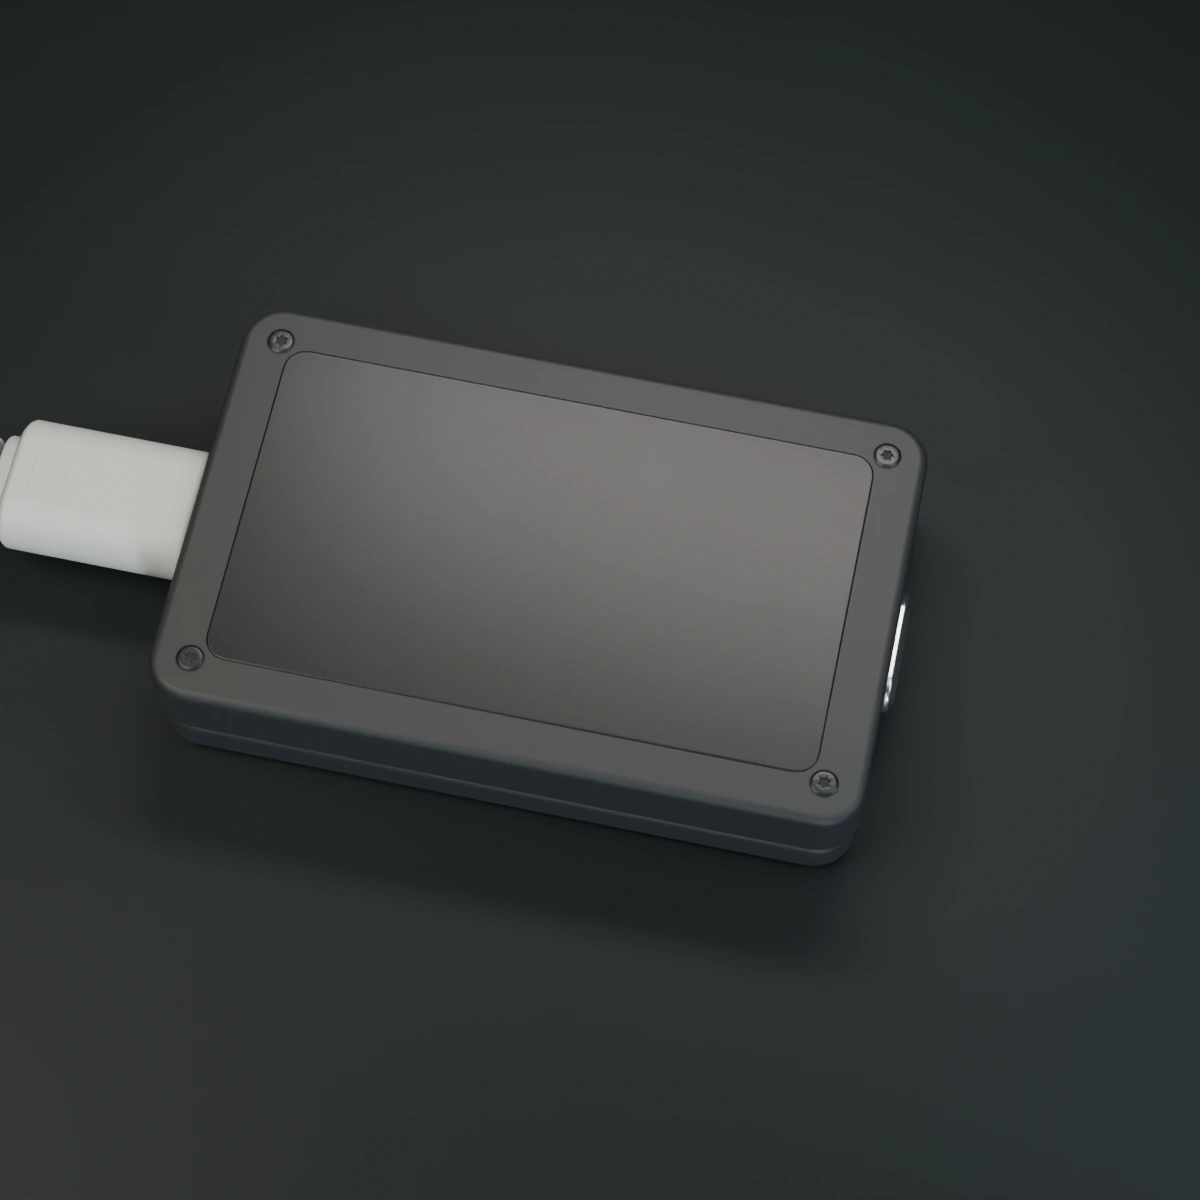
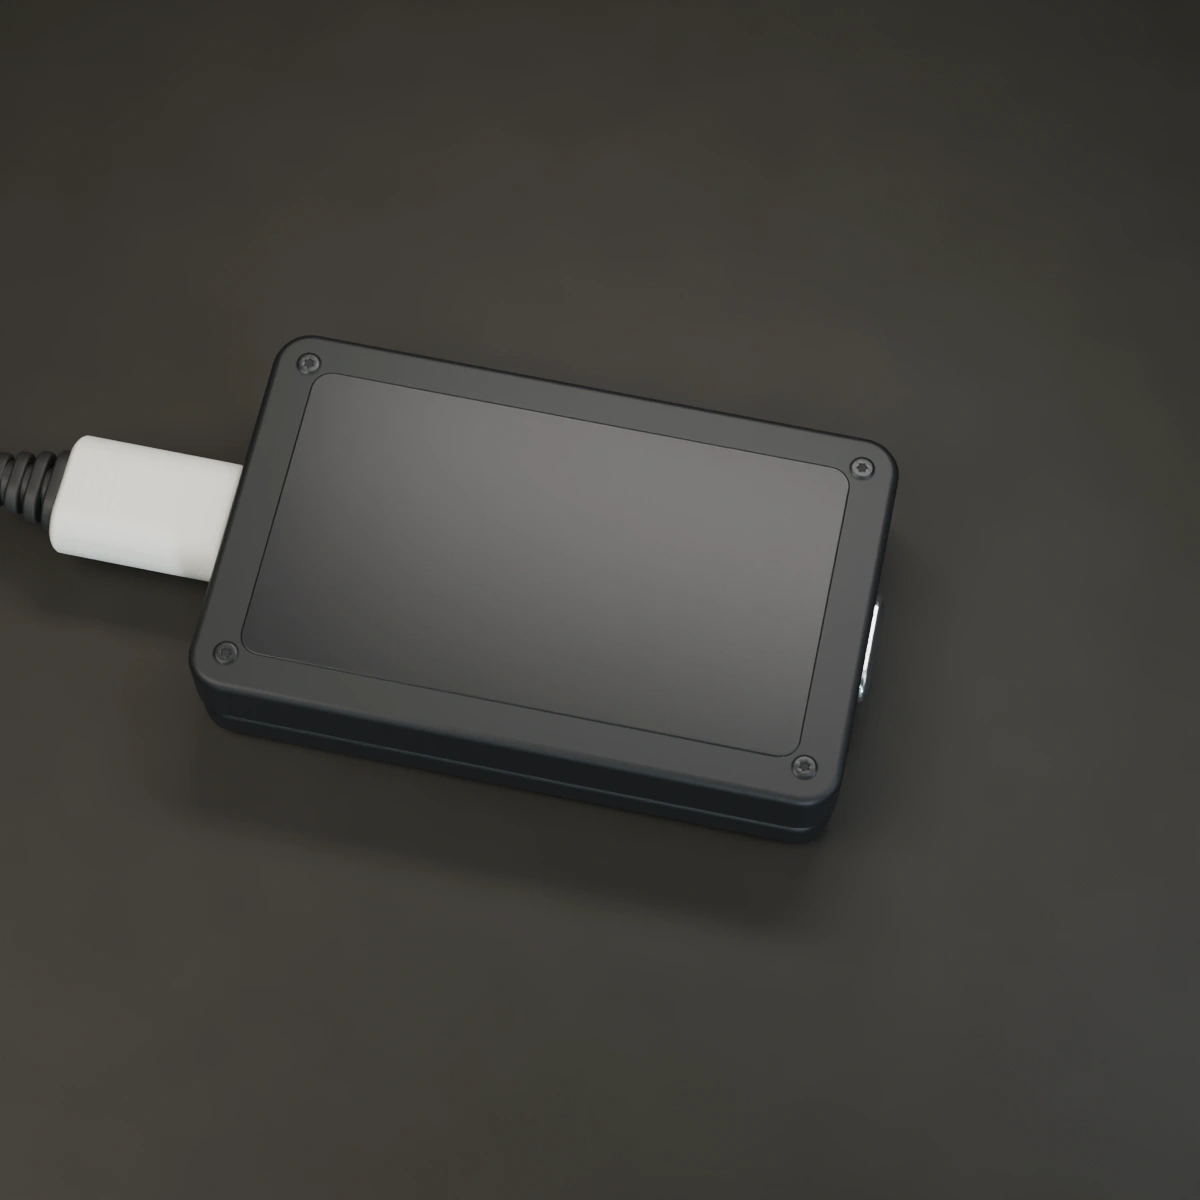
Photograph the cradle on cream and the booted meter on limestone

Changed region(s): [[0.0, 0.2467, 0.7708, 0.8325]]

diff --git a/src/instruments/newton-protocol.js b/src/instruments/newton-protocol.js
@@ -123,6 +123,10 @@ export async function createInstrument({ container, canvas, phraseStore, theme, 
     <span class="newton-word is-revealed" data-slot="2"></span>
   `;
   container.appendChild(wordLayer);
+  const caption = document.createElement('span');
+  caption.className = 'instrument-fineprint';
+  caption.textContent = 'click to clack · MCP turns 2';
+  container.appendChild(caption);
   const wordEls = [
     wordLayer.querySelector('[data-slot="0"]'),
     wordLayer.querySelector('[data-slot="1"]'),
@@ -231,7 +235,23 @@ export async function createInstrument({ container, canvas, phraseStore, theme, 
     wordEls.forEach((el) => el.classList.remove('is-revealed'));
   }
 
+  const filmPoint = new THREE.Vector3();
+  const filmEdge = new THREE.Vector3();
+  scene.userData.shutter = new THREE.Vector4();
   function updateVisuals() {
+    // Project the moving end sphere over a 1/38 s exposure. The lettering below
+    // the hardware remains sharp, as do the two stationary spheres.
+    const end = Math.abs(omega[2]) > Math.abs(omega[0]) ? 2 : 0;
+    const angle = theta[end];
+    const previous = angle - omega[end]/38;
+    const project = (v, a) => v.set(BALL_XS[end]+PENDULUM_L*Math.sin(a),
+      PIVOT_Y-PENDULUM_L*Math.cos(a), 0).project(camera);
+    project(filmPoint, angle);
+    project(filmEdge, previous);
+    const shutter = scene.userData.shutter;
+    shutter.set(.5+.5*filmPoint.x,.5+.5*filmPoint.y,
+      .5*(filmPoint.x-filmEdge.x),.5*(filmPoint.y-filmEdge.y));
+    scene.userData.shutterRadius = Math.abs(omega[end]) > .09 ? .091+Math.hypot(shutter.z,shutter.w) : 0;
     for (let i = 0; i < 3; i++) {
       const a = theta[i];
       const bx = BALL_XS[i] + PENDULUM_L * Math.sin(a);
@@ -483,6 +503,7 @@ export async function createInstrument({ container, canvas, phraseStore, theme, 
       canvas.removeEventListener('pointerup', onPointerUp);
       canvas.removeEventListener('pointercancel', onPointerUp);
       wordLayer.remove();
+      caption.remove();
       scene.traverse((obj) => {
         if (obj.geometry && obj.geometry !== threadGeo) obj.geometry.dispose();
         if (obj.material) {

diff --git a/src/core/studio.js b/src/core/studio.js
@@ -195,6 +195,7 @@ class StudioRuntime {
           photograph: { value: null }, frame: { value: this.negative.texture }, depth: { value: depth },
           pixel: { value: new THREE.Vector2() }, focus: { value: 1 },
           clip: { value: new THREE.Vector2() },
+          shutter: { value: new THREE.Vector4() }, shutterRadius: {value: 0},
         },
         vertexShader: `
           varying vec2 coord;
@@ -203,7 +204,8 @@ class StudioRuntime {
         fragmentShader: `
           uniform sampler2D frame, depth, photograph;
           uniform vec2 pixel, clip;
-          uniform float focus;
+          uniform float focus, shutterRadius;
+          uniform vec4 shutter;
           varying vec2 coord;
           void main() {
             float z = texture2D(depth, coord).r;
@@ -213,6 +215,13 @@ class StudioRuntime {
             for (int i = 0; i < 6; i++) {
               float a = float(i) * 1.047198;
               sampleColor += .1 * texture2D(frame, coord + vec2(cos(a), sin(a)) * pixel * radius);
+            }
+            if (shutterRadius > 0. && length(coord-shutter.xy) < shutterRadius) {
+              vec4 exposure = vec4(0.);
+              for (int i=0; i<9; i++) {
+                exposure += texture2D(frame, coord+shutter.zw*(float(i)/8.-.5));
+              }
+              sampleColor = exposure/9.;
             }
             gl_FragColor = vec4(sampleColor.rgb / max(sampleColor.a, .0001), 1.);
             #include <tonemapping_fragment>
@@ -230,6 +239,8 @@ class StudioRuntime {
     }
     this.negative.setSize(w, h);
     const uniforms = this.lens.material.uniforms;
+    uniforms.shutterRadius.value = scene.userData.shutterRadius || 0;
+    if (uniforms.shutterRadius.value) uniforms.shutter.value.copy(scene.userData.shutter);
     uniforms.photograph.value = scene.userData.photograph;
     uniforms.depth.value = this.negative.depthTexture;
     uniforms.pixel.value.set(1 / w, 1 / h);

diff --git a/src/instruments/the-contract.js b/src/instruments/the-contract.js
@@ -16,7 +16,7 @@ export async function createInstrument({ canvas, phraseStore, theme, startSettle
   const { scene, applyTheme: applyStudioTheme } = await createStudioScene(theme, 'the-contract');
 
   // Product-photography macro flat-lay framing: matchbox meter centered (macro crop) flanked by both pale grey USB-C plugs & cables
-  const camera = new THREE.PerspectiveCamera(21.5, 1, 0.1, 45);
+  const camera = new THREE.PerspectiveCamera(23.5, 1, 0.1, 45);
   camera.position.set(1.40, 13.55, 5.90);
   camera.lookAt(0.26, 0.28, 0.0);
   camera.rotateZ(THREE.MathUtils.degToRad(1));
@@ -130,7 +130,7 @@ export async function createInstrument({ canvas, phraseStore, theme, startSettle
     } else if (matName === 'CablePaleGreyOvermold' || matName === 'CablePaleGreyStrain' || matName === 'CablePaleGreyJacket') {
       const isStrain = matName === 'CablePaleGreyStrain';
       obj.material = new THREE.MeshPhysicalMaterial({
-        color: isStrain ? 0xaeadac : 0xaaa9a5,
+        color: isStrain ? 0x202020 : 0xe6e5df,
         metalness: 0.0,
         roughness: isStrain ? 0.78 : 0.72,
         roughnessMap: cableTex,
@@ -185,11 +185,11 @@ export async function createInstrument({ canvas, phraseStore, theme, startSettle
 
   function drawPixelGrid(ctx, w, h) {
     ctx.save();
-    ctx.fillStyle = 'rgba(0, 0, 0, 0.26)';
-    for (let y = 0; y < h; y += 4) {
+    ctx.fillStyle = 'rgba(0, 0, 0, 0.48)';
+    for (let y = 0; y < h; y += 6) {
       ctx.fillRect(0, y, w, 1);
     }
-    for (let x = 0; x < w; x += 4) {
+    for (let x = 0; x < w; x += 6) {
       ctx.fillRect(x, 0, 1, h);
     }
     ctx.restore();

diff --git a/src/styles.css b/src/styles.css
@@ -411,7 +411,7 @@ body {
   position: absolute;
   left: 6%;
   right: 6%;
-  bottom: 9.5%;
+  bottom: 9%;
   display: grid;
   grid-template-columns: repeat(3, 1fr);
   align-items: baseline;
@@ -420,7 +420,7 @@ body {
   pointer-events: none;
   font-family: var(--serif);
   font-size: clamp(28px, 5.4%, 56px);
-  font-size: calc(var(--poster-size) * 0.072);
+  font-size: calc(var(--poster-size) * 0.085);
   line-height: 1.05;
   letter-spacing: -0.02em;
   color: var(--ink);
@@ -781,4 +781,20 @@ body.is-poster-only .poster-frame {
   .feed {
     scroll-behavior: auto;
   }
+}
+
+.newton-word:not(:last-child) { -webkit-text-stroke: .012em currentColor; }
+.instrument-fineprint {
+  position: absolute;
+  inset: auto 0 3.8%;
+  text-align: center;
+  font: 400 clamp(8px, calc(var(--poster-size) * .013), 14px)/1.2 var(--mono);
+  letter-spacing: .045em;
+  color: var(--ink);
+  pointer-events: none;
+}
+[data-id="cipher-machine"] .instrument-fineprint {
+  inset: auto 4% 4% auto;
+  writing-mode: vertical-rl;
+  color: #e4d5b5;
 }

diff --git a/blender/scripts/photograph.py b/blender/scripts/photograph.py
@@ -25,7 +25,7 @@ LIVE_MATERIALS = {
     "CipherFaceplate","OledScreenMat","OledCoverGlass","LedVconn","TerminalLabel",
     "LegendPlateMat","LedCC1","LedCC2","DrawerHeaderMat","DrawerReadoutMat","SolariBezelDecal",
 }
-PAPER = {'cipher-machine': '868775', 'combination-lock': 'ba9b68', 'destination-blind': '87969d', 'discover-identity': 'b29a7c', 'dymo-embosser': '8baca0', 'flip-contract': 'bb7453', 'jacket-legend': '9caac4', 'letterpress-lockup': 'b7a59e', 'mechanical-typewriter': 'a2a59a', 'newton-protocol': 'c2b29a', 'specimen-drawer': 'a69887', 'the-contract': '81949a'}
+PAPER = {'cipher-machine': '4a4135', 'combination-lock': 'ba9b68', 'destination-blind': '87969d', 'discover-identity': 'b29a7c', 'dymo-embosser': '8baca0', 'flip-contract': 'bb7453', 'jacket-legend': 'd1b997', 'letterpress-lockup': 'b7a59e', 'mechanical-typewriter': 'a2a59a', 'newton-protocol': 'ede3c9', 'specimen-drawer': 'a69887', 'the-contract': 'c8c2b5'}
 
 # These groups translate without rotating. Project their measured radiance onto
 # the live meshes; occlusion, parallax and socket insertion still use real depth.
@@ -67,10 +67,11 @@ def save_radiance(exr, destination):
 
 
 FINISH = {
-    "MeterMatteBlack": ("292b2d", .14, .56), "MeterBezel": ("151619", .28, .36),
-    "CablePaleGreyOvermold": ("bdbdbb", 0, .61), "CablePaleGreyJacket": ("b9bab8", 0, .66),
-    "CablePaleGreyStrain": ("afb0ae", 0, .68), "MicroButton": ("333536", .72, .36),
-    "CipherChassis": ("343a34", .28, .52), "CipherDeck": ("232925", .4, .39),
+    "MeterMatteBlack": ("141619", .10, .52), "MeterBezel": ("151619", .28, .36),
+    "CablePaleGreyOvermold": ("eeede6", 0, .61), "CablePaleGreyJacket": ("e6e5df", 0, .66),
+    "CablePaleGreyStrain": ("202020", 0, .59), "MicroButton": ("333536", .72, .36),
+    "PlugAnodizedAlu": ("252626", .46, .44), "PlugMatteTPE": ("20201e", 0, .59),
+    "CipherChassis": ("553020", .0, .34), "CipherDeck": ("1b1b1a", .22, .37),
     "MatteAnodizedBlack": ("2b2c2b", .64, .50), "FrameMatteBlack": ("242626", .45, .48),
     "BaseGraphiteInset": ("363836", .40, .56), "GunmetalCollar": ("4d5152", .85, .32),
     "BlockMatteBlack": ("394247", .36, .55), "TerminalMatteAlu": ("303332", .6, .51),
@@ -115,7 +116,7 @@ def finish(mat):
     ramp.inputs["To Max"].default_value = min(1, roughness+.12)
     link(noise.outputs["Fac"], ramp.inputs["Value"])
     link(ramp.outputs["Result"], bsdf.inputs["Roughness"])
-    if mat.name == "CherryFurniture":
+    if mat.name in ("CherryFurniture","CipherChassis"):
         mapping = nodes.new("ShaderNodeVectorMath")
         mapping.operation = "MULTIPLY"
         mapping.inputs[1].default_value = (1, 37, 13)
@@ -125,14 +126,14 @@ def finish(mat):
         grain.inputs["Distortion"].default_value = .24
         link(mapping.outputs[0], grain.inputs[0])
         rings = nodes.new("ShaderNodeValToRGB")
-        rings.color_ramp.elements[0].color = (*rgb("774627"),1)
-        rings.color_ramp.elements[1].color = (*rgb("c79f77"),1)
+        rings.color_ramp.elements[0].color = (*rgb("321a0b" if mat.name == "CipherChassis" else "774627"),1)
+        rings.color_ramp.elements[1].color = (*rgb("98552e" if mat.name == "CipherChassis" else "c79f77"),1)
         link(grain.outputs["Fac"], rings.inputs[0])
         link(rings.outputs[0], bsdf.inputs["Base Color"])
 
 
 def is_live(obj):
-    if obj.name.startswith(("FlapAxle", "FlapBushing")):
+    if obj.name == "CoilStock" or obj.name.startswith(("FlapAxle", "FlapBushing")):
         return True
     if any(m and m.name in LIVE_MATERIALS for m in obj.data.materials):
         return True
@@ -176,6 +177,9 @@ def photograph(source):
             obj.hide_render = True
         else:
             fixed.append(obj.name)
+        if obj.name == "CoilStock":
+            obj.hide_render = False
+            obj.visible_camera = False
         if actors:
             obj.hide_render = False
             obj.visible_camera = obj.name in projected
@@ -203,6 +207,16 @@ def photograph(source):
     bsdf.inputs["Specular IOR Level"].default_value = .14
     mesh.materials.append(paper)
     stock = PAPER[name]
+    if name in ("the-contract", "jacket-legend"):
+        # Lapped limestone and felt exhibit broad tonal variation as well as tooth.
+        nodes, link = paper.node_tree.nodes, paper.node_tree.links.new
+        cloud = nodes.new("ShaderNodeTexNoise")
+        cloud.inputs["Scale"].default_value = 2.5 if name == "the-contract" else 180
+        cloud.inputs["Detail"].default_value = 4
+        link(nodes.get("Texture Coordinate").outputs["Object"], cloud.inputs["Vector"])
+        surface_tint = nodes.new("ShaderNodeValToRGB")
+        link(cloud.outputs["Fac"], surface_tint.inputs[0])
+        link(surface_tint.outputs[0], bsdf.inputs["Base Color"])
     camera = bpy.data.cameras.new('Product lens')
     camera.sensor_fit = 'HORIZONTAL'
     camera.angle = math.radians(float(re.search(r'PerspectiveCamera\(([\d.]+)',js).group(1)))
@@ -285,6 +299,15 @@ def photograph(source):
         bsdf.inputs["Base Color"].default_value = tuple(v*(1 if mode=='light' else .055) for v in rgb(stock))+(1,)
         key.energy = 790 if mode=='light' else 585
         fill.energy = 210 if mode=='light' else 155
+        if name in ("the-contract","jacket-legend"):
+            color = bsdf.inputs["Base Color"].default_value
+            spread = .13 if name == "the-contract" else .23
+            for i, stop in enumerate(surface_tint.color_ramp.elements):
+                stop.color = tuple(color[j]*(1 + (2*i-1)*spread) for j in range(3)) + (1,)
+        if name == "cipher-machine":
+            key.energy *= .73
+            fill.energy *= .33
+            world.nodes["Background"].inputs["Strength"].default_value = .23
         scene.render.filepath = str((dest/(mode+'.webp')).resolve())
         if actors:
             scene.render.film_transparent = True
